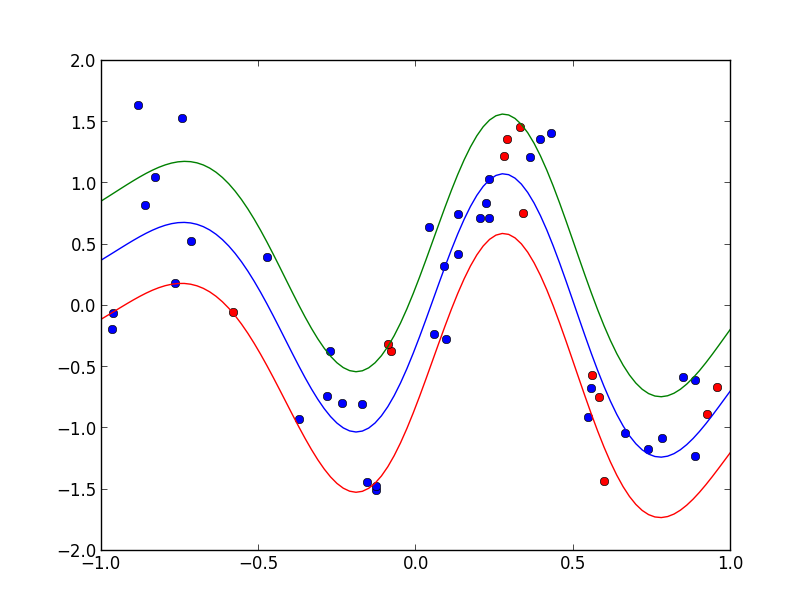
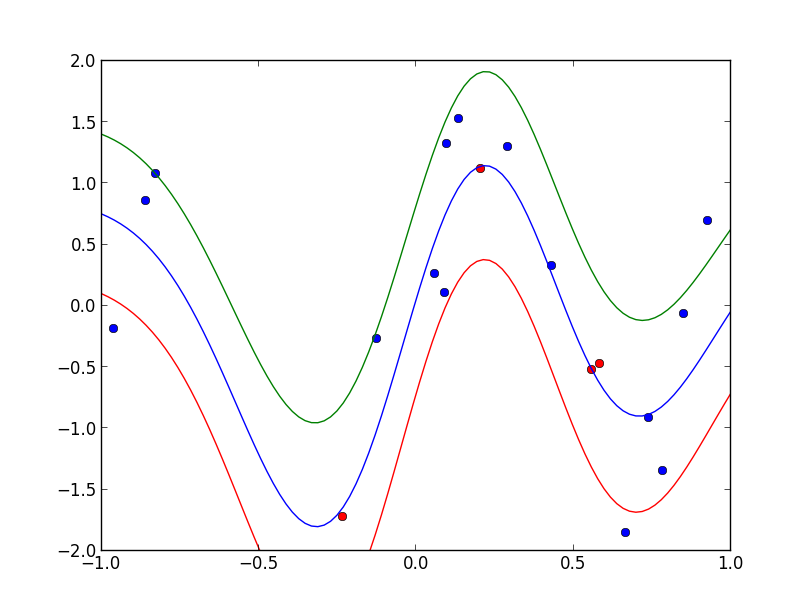
Update 13.html

diff --git a/13.html b/13.html
@@ -346,16 +346,16 @@
 
         <section>
         <p>
-        前回と同様にSMO法で学習を行わせてみます. まず数式を簡単にする為に
-        \[ u_i = (a_i + \hat{a_i})/2,\quad v_i = (a_i-\hat{a_i})/2 \]
+        SMO法で学習を行わせてみます. まず数式を簡単にする為に
+        \[ u_i = a_i + \hat{a_i},\quad v_i = a_i-\hat{a_i} \]
         とおくと, 以下の問題に帰着されます.
         </p>
         <div class="block" style="border-color:blue">
           <p>
-          $0 \leq u_i \pm v_i \leq C$ 及び
+          $0 \leq u_i \pm v_i \leq 2C$ 及び
           \[ \sum_i v_i = 0 \]
           のもとで
-          \[ \tilde{L}(\mathbf{u},\mathbf{v})= -\sum_{i,j}v_iv_j K_{ij} - \epsilon\sum_i u_i + \sum_i v_it_i \]
+          \[ \tilde{L}(\mathbf{u},\mathbf{v})= -\frac{1}{2}\sum_{i,j}v_iv_j K_{ij} - \epsilon\sum_i u_i + \sum_i v_it_i \]
           を最大化する. 但し $K_{ij}=k(\mathbf{x}_i,\mathbf{x}_j)$
           </p>
         </div>
@@ -363,10 +363,37 @@
 
         <section>
         <p>
-        $v_i$ を固定して $u_i$ のみを動かせば, $u_i \geq |v_i|$ である事より, 条件 $-C/2 \leq v_i \leq C/2$ 及び $\sum_i v_i = 0$ の下で
-        \[ \tilde{L}(\mathbf{v})= -\sum_{i,j}v_iv_j K_{ij} - \epsilon\sum_i |v_i| + \sum_i v_it_i \]
+        $v_i$ を固定して $u_i$ のみを動かせば, $u_i \geq |v_i|$ である事より, 条件 $-C \leq v_i \leq C$ 及び $\sum_i v_i = 0$ の下で
+        \[ \tilde{L}(\mathbf{v})= -\frac{1}{2}\sum_{i,j}v_iv_j K_{ij} - \epsilon\sum_i |v_i| + \sum_i v_it_i \]
         を最大化すれば良いです.
         </p>
+        <p>
+        これは絶対値関数を含みますが $v_i\neq 0$ では $\mathrm{d}|x|/\mathrm{d}x=\mathrm{sgn}(x)$ となります.
+        </p>
+        </section>
+
+        <section style="font-size:80%">
+        <p>
+        $v_p, v_q$ を動かす事にすると $v_p + v_q = \mathrm{const.}$ であるので
+        \[ \frac{\partial \tilde{L}}{\partial v_p} = -\sum_i(K_{pi}-K_{qi})v_i-\epsilon(\mathrm{sgn}(v_p)-\mathrm{sgn}(v_q))+t_p-t_q \]
+        となります. 従って $v_p \rightarrow v_p+\Delta_p, v_q \rightarrow v_q - \Delta_p$ と動かして $0$ と置くことによって
+        \[ \Delta_p = \frac{\sum_i(K_{qi}-K_{pi})v_i+t_p-t_q-\epsilon(\mathrm{sgn}(v_p+\Delta_p)-\mathrm{sgn}(v_q-\Delta_p))}{K_{pp}-2K_{pq}+K_{qq}} \]
+        となります.
+        </p>
+        <p>
+        これは両辺に $\Delta_p$ を含みますが $\mathrm{sgn}(v_p+\Delta_p)-\mathrm{sgn}(v_p-\Delta_p)$ は $\Delta_p$ について単調増加するので $\Delta_p$ は唯一つしか存在しません. $\mathrm{sgn}(v_p+\Delta_p)-\mathrm{sgn}(v_p-\Delta_p)=0,\pm 2$ の3パターンしかないので1つずつチェックすればOKです.
+        </p>
+        <p>
+        その後前頁の条件に従ってクリッピングを行って更新を行います. $v_p,v_q$ の選び方は前回と同様でKKT条件を満たさない $p$ を選んだ後, 
+        $|\sum_i(K_{qi}-K_{pi})v_i|=|f(\mathbf{x}_q)-f(\mathbf{x}_p)|$ が最大となる $q$ を選びます.
+        </p>
+        </section>
+
+        <section>
+        <p>
+        実装例です. ガウスカーネルを用いており, 赤い点のみが回帰方程式の構築に使われています. この例では学習データ数20 に対して, 11点で回帰方程式を表す事が出来ています.
+        </p>
+        <div align="center"> <img width="600px" src="prog/fig13-3.png"> <a href="prog/prog13-3.py" style="font-size:60%">prog13-3.py</a> </div>
         </section>
 
         <section>
@@ -521,7 +548,7 @@
 
         <section>
         <p>
-        実装例です. ガウスカーネルを用いており, 赤い点のみが回帰方程式の構築に使われています. 上下の曲線は標準偏差を表しています. この例では学習データ数50 に対して, 12点だけで回帰方程式を表す事が出来ています.
+        実装例です. ガウスカーネルを用いており, 赤い点のみが回帰方程式の構築に使われています. 上下の曲線は標準偏差を表しています. この例では学習データ数20 に対して, 5点だけで回帰方程式を表す事が出来ています.
         </p>
         <div align="center"> <img width="600px" src="prog/fig13-2.png"> <a href="prog/prog13-2.py" style="font-size:60%">prog13-2.py</a> </div>
         </section>

diff --git a/prog/prog13-3.py b/prog/prog13-3.py
@@ -1,0 +1,177 @@
+# -*- coding: utf8 -*-
+import random
+import numpy as np
+from matplotlib.pyplot import *
+import matplotlib.cm as cmap
+
+#== 2クラスSVMRegress ==
+class SVMRegress:
+    # デフォルトセッティング
+    # SMO法の反復回数上限
+    MAX_ITER = 500
+    # |x|<ZERO_EPS のとき, x=0が成立していると見なす.
+    ZERO_EPS = 1.0e-1
+    # SVMRegress回帰のパラメータC(大きくするとフィッティングの精度が上がる)
+    REGRESS_C   = 1.0e5
+    # 誤差関数のパラメータ(小さくするとより厳密. 大きくするとよりスパース)
+    REGRESS_EPS = 0.8
+    # カーネル関数
+    def gaussian(x1, x2):
+        return np.exp(-(x1-x2)**2/(2*0.3**2))
+
+    def __init__(self, max_iter=MAX_ITER, zero_eps=ZERO_EPS,\
+            eps=REGRESS_EPS, C=REGRESS_C, kernel=gaussian):
+        self.max_iter = max_iter
+        self.zero_eps = zero_eps
+        self.C        = C
+        self.eps      = eps
+        self.kernel   = kernel
+
+    def gram_matrix(svm):
+        N = svm.N
+        K = np.zeros((N,N))
+        for i in range(N):
+            for j in range(N):
+                K[i,j] = svm.kernel(svm.train_x[i], svm.train_x[j])
+        return K
+
+    # 定数項を計算
+    def threshold(svm):
+        N = svm.N
+        v = 0
+        n = 0
+        for i in range(N):
+            if abs(svm.v[i]) < svm.zero_eps: continue
+            n += 1
+            if svm.v[i] >= 0:
+                s = svm.train_t[i] - svm.eps
+            else:
+                s = svm.train_t[i] + svm.eps
+            for j in range(N):
+                if abs(svm.v[j]) < svm.zero_eps: continue
+                s -= svm.v[j]*svm.K[i,j]
+            v += s
+        return v/n
+
+    # 予測値
+    def predict(self, x):
+        v = 0
+        for i in range(self.N):
+            if abs(self.v[i]) < self.zero_eps: continue
+            v += self.v[i] * self.kernel(self.train_x[i], x)
+        return v + self.theta
+
+    # KKT条件が成立しているならTrue
+    def checkKKT(svm, i):
+        vi   = svm.v[i]
+        a    = (abs(vi)+vi)/2
+        ahat = (abs(vi)-vi)/2
+        # a, ahatのどちらかは0でなければならない
+        if a >= svm.zero_eps and ahat >= svm.zero_eps:
+            return False
+        if a < svm.zero_eps and ahat < svm.zero_eps:
+            return True
+        if a >= svm.zero_eps:
+            # a > 0, ahat = 0
+            if svm.C-a < svm.zero_eps:
+                return True
+            yi = svm.predict(svm.train_x[i])
+            if abs(-svm.train_t[i]+yi+svm.eps) < svm.zero_eps:
+                return True
+            return False
+        else:
+            # a = 0, ahat > 0
+            if svm.C-ahat < svm.zero_eps:
+                return True
+            yi = svm.predict(svm.train_x[i])
+            if abs(svm.train_t[i]-yi+svm.eps) < svm.zero_eps:
+                return True
+            return False
+
+    # 2つ目の更新ベクトルを選択
+    def choose_second(svm, i):
+        fi = svm.predict(train_x[i])
+        m  = 0
+        mj = 0
+        for j in range(N):
+            if abs(svm.v[i]) < svm.zero_eps: continue
+            v = abs(svm.predict(train_x[j])-fi)
+            if v > m:
+                m = v
+                mj = j
+        return mj
+
+    # muとthetaを更新
+    def update(svm, i, j):
+        if i == j: return False
+        ti  = svm.train_t[i]
+        tj  = svm.train_t[j]
+        fi  = svm.predict(train_x[i])
+        fj  = svm.predict(train_x[j])
+        eta = svm.K[i,i]-2*svm.K[i,j]+svm.K[j,j]
+        for sgn in [-2, 0, 2]:
+            deltai = (fj-fi+ti-tj-svm.eps*sgn)/eta
+            if 2*(svm.v[i] + deltai >= 0) - 2*(svm.v[j] - deltai >= 0)\
+                    == sgn: break
+        c       = svm.v[i] + svm.v[j]
+        next_vi = svm.v[i] + deltai
+
+        # クリッピング
+        h       = min(svm.C, c+svm.C)
+        l       = max(-svm.C, c-svm.C)
+        if next_vi > h: next_vi = h
+        elif next_vi < l: next_vi = l
+
+        if abs(next_vi - svm.v[i]) < svm.zero_eps: return False
+        svm.v[i] = next_vi
+        svm.v[j] = c - next_vi
+        svm.theta = SVMRegress.threshold(svm)
+        return True
+
+    # train_x[i] (N, D)型のfloat型numpy.array
+    # train_t: 長さNのint型numpy.array (値は1,-1)
+    def learn(self, train_x, train_t):
+        #== SMO 法 ==
+        # 以下のメインループはアイデアを理解してもらう為に
+        # 非常に単純化したものです. 従って遅いです.
+        # もっと高速な方法はSMO法の論文を参照してください.
+        self.N       = len(train_t)
+        self.train_x = np.copy(train_x)
+        self.train_t = np.copy(train_t)
+        self.v       = np.random.uniform(0, 1, self.N)
+        self.K       = SVMRegress.gram_matrix(self)
+        self.theta   = SVMRegress.threshold(self)
+        for p in range(self.max_iter):
+            changed = False
+            for i in range(N):
+                if SVMRegress.checkKKT(self, i): continue
+                j       = SVMRegress.choose_second(self, i)
+                changed = SVMRegress.update(self, i, j) or changed
+            if not changed: break
+#== 実験 ==
+
+# 学習データ
+np.random.seed(0)
+N = 20
+train_x = np.random.uniform(-1, 1, N)
+train_t = np.random.normal(np.sin(2*np.pi*train_x), 0.5)
+
+svm = SVMRegress()
+svm.learn(train_x, train_t)
+
+x = np.linspace(-1, 1, 100)
+y = np.vectorize(svm.predict)(x)
+
+xlim(-1, 1)
+ylim(-2, 2)
+count = 0
+for i in range(N):
+    color = "blue"
+    if abs(svm.v[i]) >= svm.zero_eps:
+        count += 1
+        color = "red"
+    plot(train_x[i], train_t[i], "o", color=color)
+plot(x, y)
+show()
+
+print "%d/%d" % (count, N)

diff --git a/prog/prog13-2.py b/prog/prog13-2.py
@@ -12,7 +12,7 @@ THRESHOLD  = 1.0e2 # これよりαが大きいならばw=0とする.
 
 # 学習データ
 random.seed(0)
-N = 50
+N = 20
 train_x = random.uniform(-1, 1, N)
 train_t = random.normal(sin(2*pi*train_x), 0.5)
 
